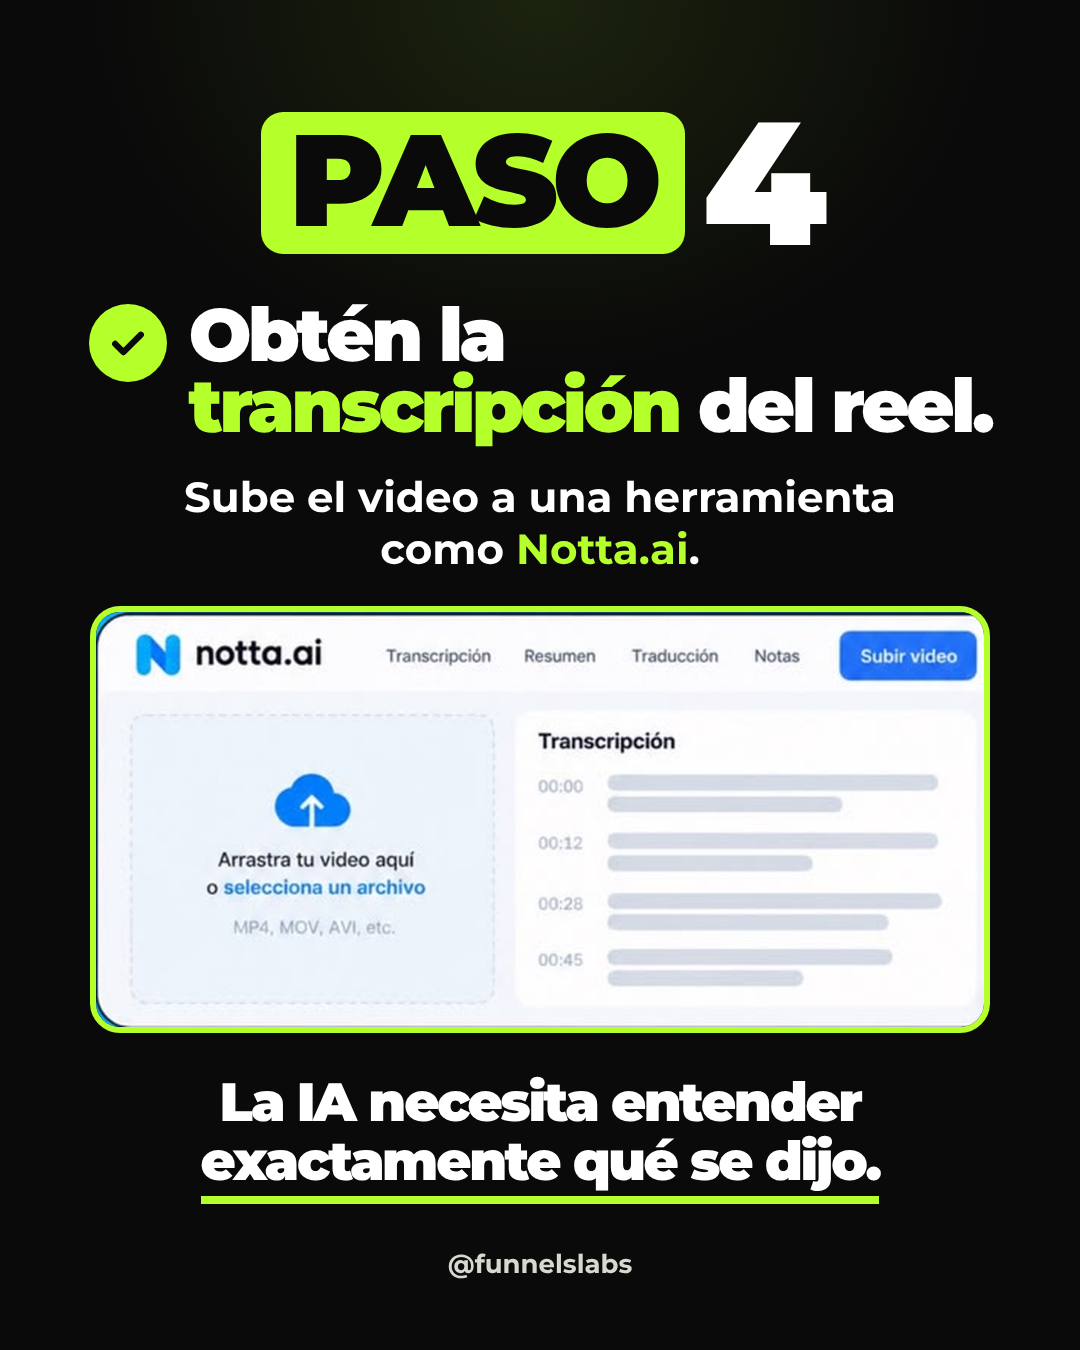
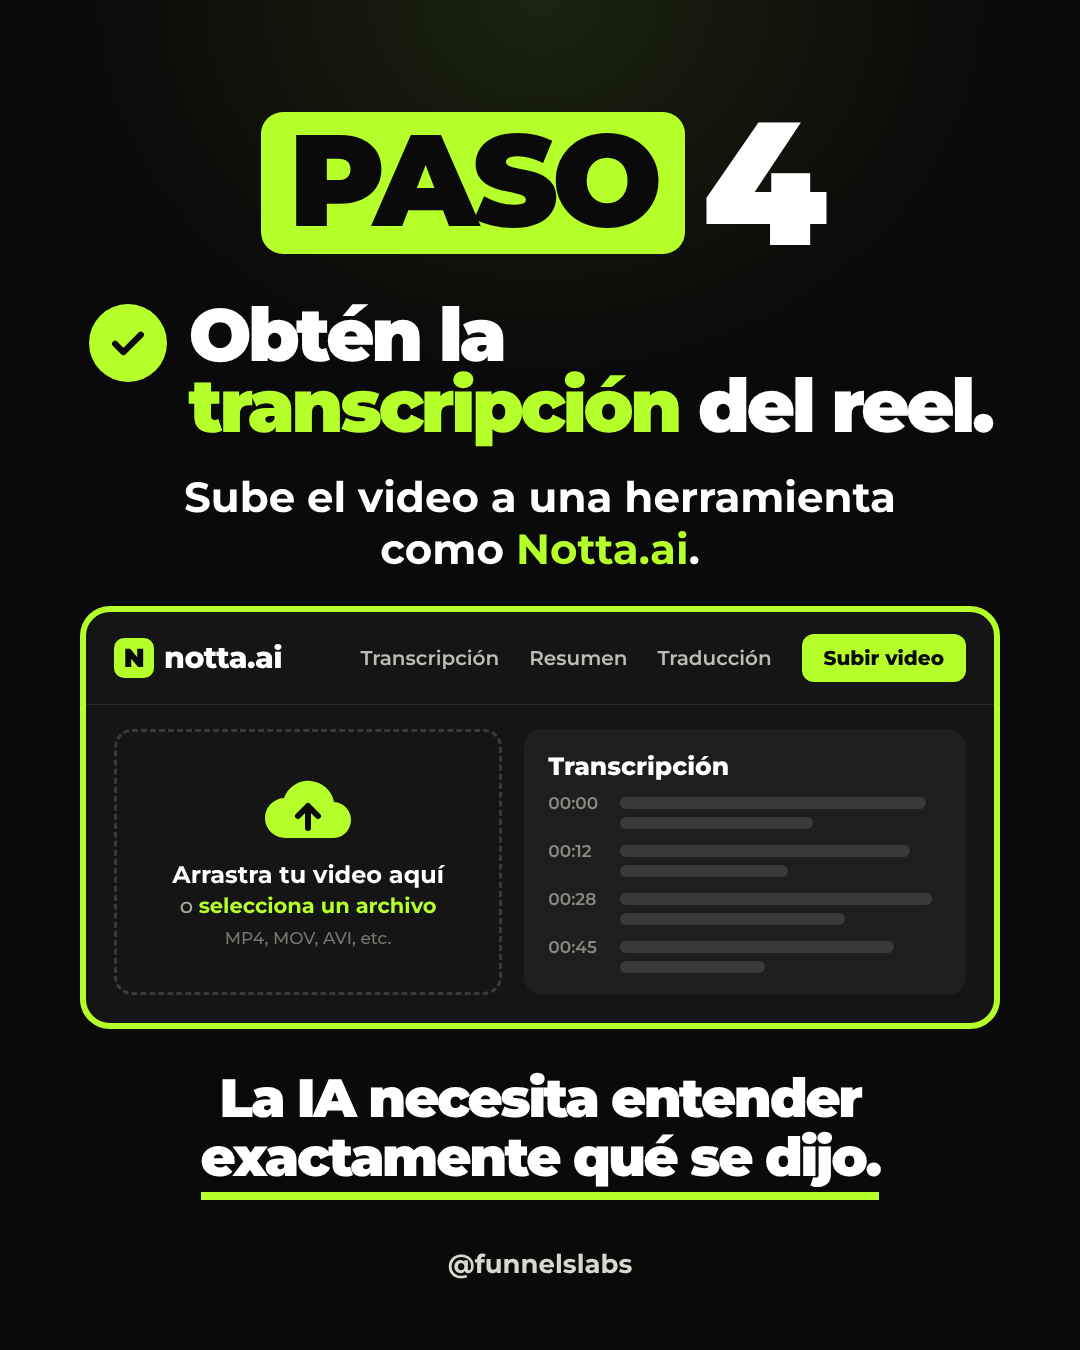
Reels virales: paso 5 con Claude y Notta en colores de marca
Claude-Session: https://claude.ai/code/session_018d4LXHkXweDJXxfN5x99dL

Changed region(s): [[0.0611, 0.4356, 0.9472, 0.9022]]

diff --git a/carruseles/reels-virales/carrusel.html b/carruseles/reels-virales/carrusel.html
@@ -67,6 +67,26 @@
   .shot { margin-top:30px; width:900px; border:6px solid var(--lime); border-radius:30px; overflow:hidden; background:#fff; }
   .shot img { display:block; width:100%; }
   .under { display:inline-block; padding-bottom:12px; background: linear-gradient(var(--lime),var(--lime)) bottom / 100% 8px no-repeat; }
+
+  .prompt { margin-top:26px; width:920px; background:#151515; color:#e8e8e2; border:6px solid var(--lime); border-radius:30px; padding:34px 40px; text-align:left; font-size:23px; line-height:1.38; font-weight:500; }
+  .prompt b { font-weight:800; color:#fff; }
+  .prompt .hl { background:var(--lime); color:#0a0a0a; font-weight:800; padding:0 6px; border-radius:6px; }
+  .prompt .vi { color:var(--lime); font-weight:800; }
+  .prompt p + p { margin-top:12px; }
+  .prompt ul { margin:6px 0 12px 4px; } .prompt li { list-style:none; display:flex; gap:12px; align-items:baseline; }
+  .prompt li::before { content:""; width:10px; height:10px; border-radius:99px; background:var(--lime); flex:none; transform:translateY(-2px); }
+
+  .notta { margin-top:30px; width:920px; background:#151515; border:6px solid var(--lime); border-radius:30px; overflow:hidden; text-align:left; }
+  .nbar { display:flex; align-items:center; gap:30px; padding:22px 28px; border-bottom:1px solid #2a2a2a; font-size:20px; font-weight:600; color:#bdbdb5; }
+  .nlogo { display:flex; align-items:center; gap:10px; font-size:30px; font-weight:800; color:#fff; margin-right:auto; letter-spacing:-0.02em; }
+  .nlogo i { font-style:normal; width:40px; height:40px; border-radius:10px; background:var(--lime); color:#0a0a0a; display:flex; align-items:center; justify-content:center; font-weight:900; font-size:26px; }
+  .nbtn { background:var(--lime); color:#0a0a0a; font-weight:800; padding:12px 22px; border-radius:12px; }
+  .nbody { display:flex; gap:22px; padding:24px 28px 28px; }
+  .drop { flex:1; border:3px dashed #3a3a3a; border-radius:18px; display:flex; flex-direction:column; align-items:center; justify-content:center; text-align:center; padding:20px; color:#fff; }
+  .tr { flex:1.15; background:#1e1e1e; border-radius:18px; padding:22px 24px; color:#fff; }
+  .tl { display:flex; gap:16px; margin-top:12px; } .tl b { font-size:17px; color:#8a8a82; font-weight:600; width:56px; flex:none; }
+  .tl span { flex:1; display:flex; flex-direction:column; gap:8px; padding-top:4px; } .tl i { display:block; height:12px; border-radius:99px; background:#3a3a3a; }
+  .tl:first-of-type i:first-child { background:var(--lime); }
 </style>
 </head>
 <body>
@@ -140,12 +160,40 @@
   <div class="check"><span class="tick"><svg viewBox="0 0 24 24" fill="none" stroke="#0a0a0a" stroke-width="3.4" stroke-linecap="round" stroke-linejoin="round"><path d="M5 12.5l4.5 4.5L19 7.5"/></svg></span>
     <div class="x">Obtén la<br><span class="lime">transcripción</span> del reel.</div></div>
   <div class="sub" style="font-size:42px;margin-top:30px">Sube el video a una herramienta<br>como <span class="lime">Notta.ai</span>.</div>
-  <div class="shot"><img src="img/paso4-notta.png"></div>
+  <div class="notta">
+    <div class="nbar"><span class="nlogo"><i>N</i>notta.ai</span><span>Transcripción</span><span>Resumen</span><span>Traducción</span><span class="nbtn">Subir video</span></div>
+    <div class="nbody">
+      <div class="drop"><svg width="96" height="70" viewBox="0 0 96 70"><path d="M26 62a20 20 0 0 1-2-40 26 26 0 0 1 50 4 18 18 0 0 1-2 36z" fill="#b5ff2b"/><path d="M48 52V30M38 40l10-10 10 10" fill="none" stroke="#0a0a0a" stroke-width="6" stroke-linecap="round" stroke-linejoin="round"/></svg>
+        <div style="font-weight:700;font-size:24px;margin-top:14px">Arrastra tu video aquí</div><div style="font-size:21px;color:#a8a8a0;margin-top:4px">o <span class="lime" style="font-weight:700">selecciona un archivo</span></div><div style="font-size:17px;color:#77776f;margin-top:10px">MP4, MOV, AVI, etc.</div></div>
+      <div class="tr"><div style="font-weight:800;font-size:25px;margin-bottom:12px">Transcripción</div>
+        <div class="tl"><b>00:00</b><span><i style="width:95%"></i><i style="width:60%"></i></span></div>
+        <div class="tl"><b>00:12</b><span><i style="width:90%"></i><i style="width:52%"></i></span></div>
+        <div class="tl"><b>00:28</b><span><i style="width:97%"></i><i style="width:70%"></i></span></div>
+        <div class="tl"><b>00:45</b><span><i style="width:85%"></i><i style="width:45%"></i></span></div></div>
+    </div></div>
   <div class="x" style="font-size:54px;margin-top:40px;line-height:1.1"><span class="under">La IA necesita entender<br>exactamente qué se dijo.</span></div>
   <div class="handle">@funnelslabs</div>
 </section>
 
-<!-- 6. CTA -->
+<!-- 6. PASO 5 -->
+<section class="slide">
+  <div class="paso"><span class="x box">PASO</span><span class="x n">5</span></div>
+  <div class="check" style="margin-top:26px"><span class="tick"><svg viewBox="0 0 24 24" fill="none" stroke="#0a0a0a" stroke-width="3.4" stroke-linecap="round" stroke-linejoin="round"><path d="M5 12.5l4.5 4.5L19 7.5"/></svg></span>
+    <div class="x" style="font-size:66px">Pega la <span class="lime">transcripción</span><br>en <span class="lime">Claude.</span></div></div>
+  <div class="x" style="font-size:44px;margin-top:22px">Y usa este prompt:</div>
+  <div class="prompt">
+    <p><b>Actúa como un estratega de contenido y marca personal.</b> Voy a compartirte un reel que tuvo muchas visualizaciones.</p>
+    <p><span class="vi">Quiero que analices qué hizo que funcionara tan bien:</span></p>
+    <ul><li>Cómo captó la atención al inicio.</li><li>Cómo mantuvo el interés hasta el final.</li><li>Qué emoción despertó.</li><li>Cómo desarrolló el mensaje.</li><li>Qué hizo que las personas quisieran seguir viendo.</li></ul>
+    <p><b>Después, crea una versión <span class="hl">completamente nueva</span> para mi nicho.</b></p>
+    <p><span class="vi">No copies</span> frases. <span class="vi">No copies</span> ejemplos. <span class="vi">No repitas</span> la historia.</p>
+    <p>Quédate únicamente con la lógica y la estructura que hicieron que el contenido funcionara. Adapta el mensaje para que se sienta original, natural y alineado con mi marca.</p>
+    <p><b>Mi nicho es:</b> <span class="hl">[ESCRIBE TU NICHO]</span></p>
+  </div>
+  <div class="handle">@funnelslabs</div>
+</section>
+
+<!-- 7. CTA -->
 <section class="slide" style="justify-content:center;padding-top:0">
   <div style="margin-top:auto"></div>
   <div class="x" style="font-size:120px">Ahora sabes</div>

diff --git a/carruseles/reels-virales/caption.md b/carruseles/reels-virales/caption.md
@@ -1,6 +1,6 @@
 ¿Quieres crear reels virales sin copiarle el contenido a nadie? 👀
 
-El truco no es copiar el tema, es entender por qué funcionó. Te dejo los pasos que usamos para encontrar ideas que ya están probadas.
+El truco no es copiar el tema, es entender por qué funcionó. Te dejo los 5 pasos y el prompt que usamos con Claude.
 
 Guárdalo para tu próxima sesión de contenido 📌
 
